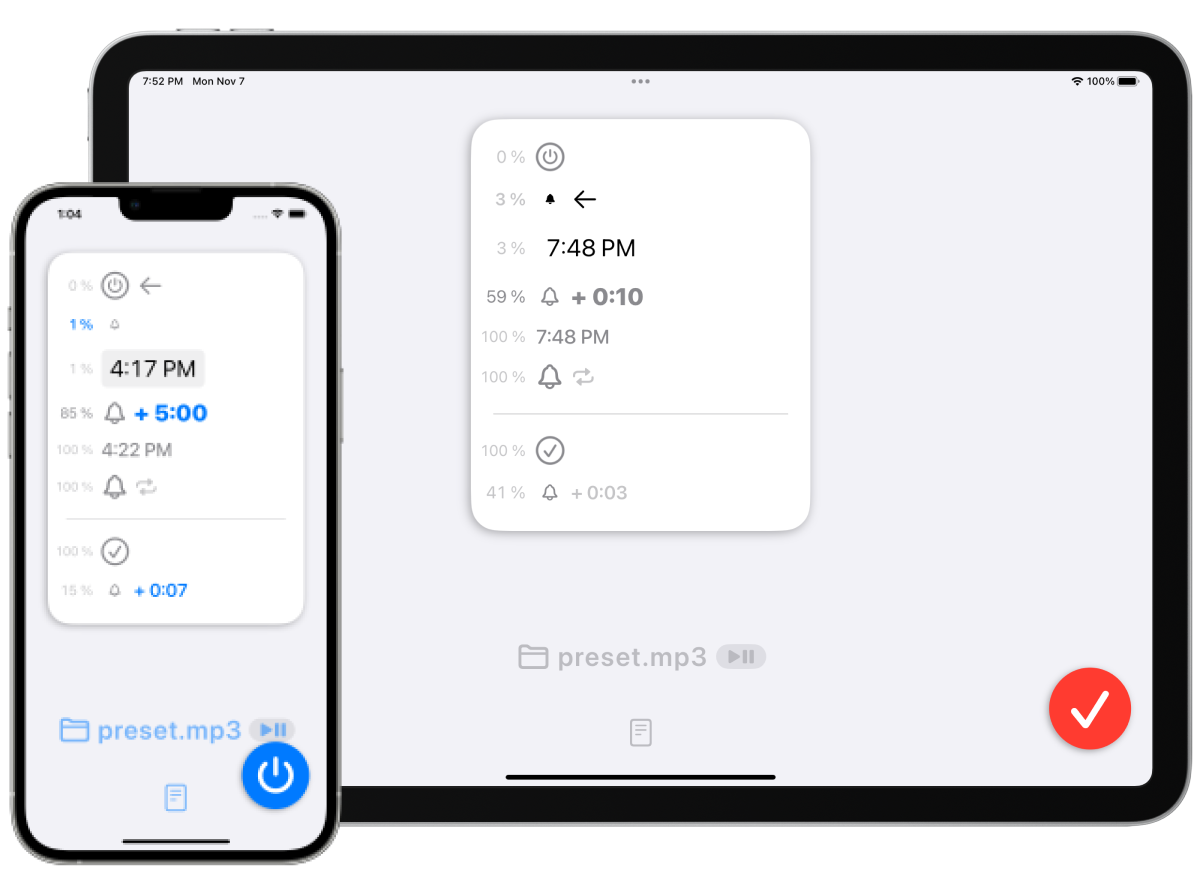
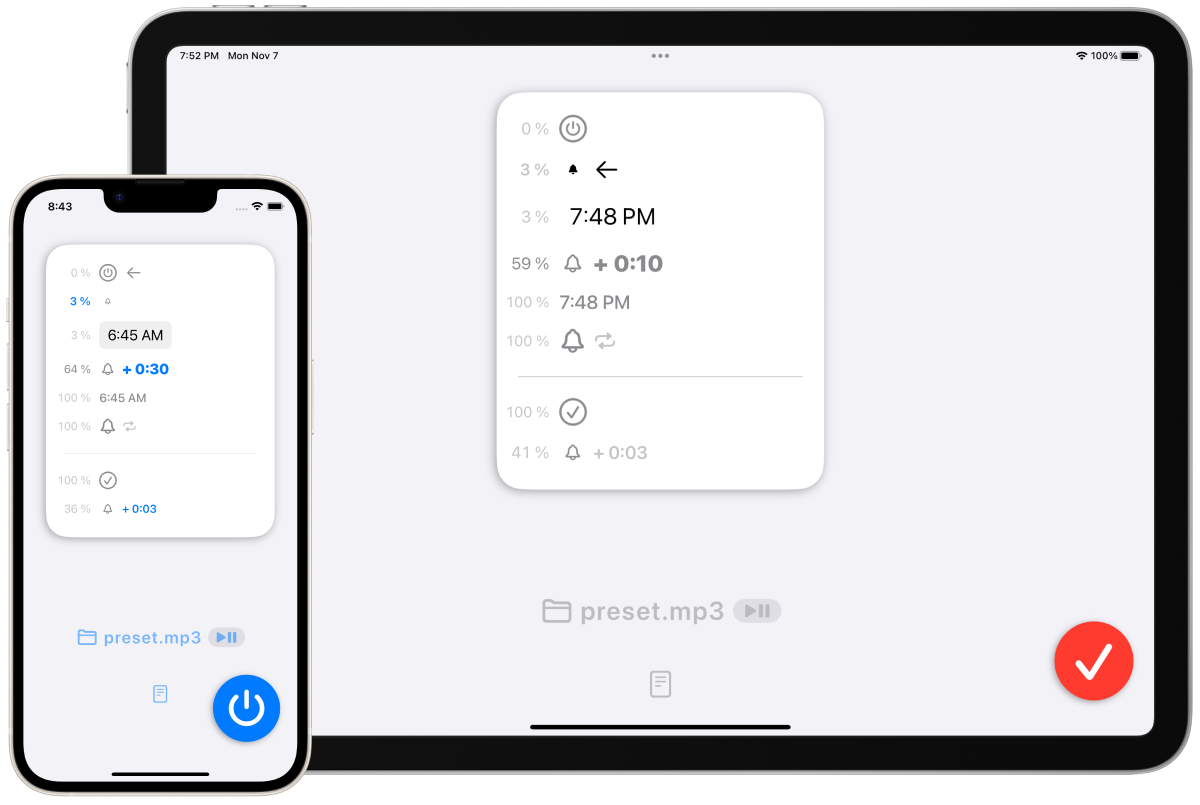
a

diff --git a/markdown_ssg/FadeInAlarm/index.md b/markdown_ssg/FadeInAlarm/index.md
@@ -6,7 +6,7 @@ lang: ja
 
 FadeInAlarm / フェードインアラーム
 ===============================
-少しずつ音が大きくなるアラームアプリです。
+少しずつ音が大きくなるアラームアプリ
 
 <img src="icon.png" width="90">
 
@@ -16,7 +16,9 @@ FadeInAlarm / フェードインアラーム
 
 概要
 --------------------------------
-任意の時刻になるとゆったりと少しずつ音量が大きくなるアラームアプリ。
+任意の時刻になるとゆったりと少しずつ音量が大きくなるアラームアプリです。
+
+数十秒から数十分といった長い時間をかけて音量を少しずつ大きくしていきます。
 
 ### オプション
 #### フェードイン時間
@@ -26,6 +28,8 @@ FadeInAlarm / フェードインアラーム
 - 5分
 - 30分
 - 1時間
+
+<img src="FadeInHourPicker480w.png" width="240">
 
 #### フェードアウト時間
 - 3秒
@@ -42,10 +46,14 @@ FadeInAlarm / フェードインアラーム
 - 0%
 
 ### 必須事項
-アラーム音声としてmp3などの音源ファイルをユーザー自身でインポートしてください。
+アラーム音声としてmp3などの音源ファイルをユーザー自身で用意しインポートしてください。
+
+動作確認用の音声データはアプリ内にプリセットされています。
 
 ### 注意事項
-事前にアプリを起動させておく必要があります。
+一般的なアラームアプリとは違い、このアプリでは諸事情により、アプリ自身が全く起動していない状態からアラームを鳴らすことはできません。事前にアプリを起動する必要があります。
+
+例えば、目覚まし目的で朝6時にアラームを鳴らしたい場合、就寝する直前にこのアプリを立ち上げて起動ボタンを押してください。
 
 デモビデオ
 ---------------------------------
